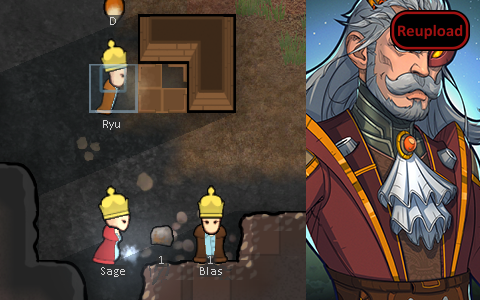
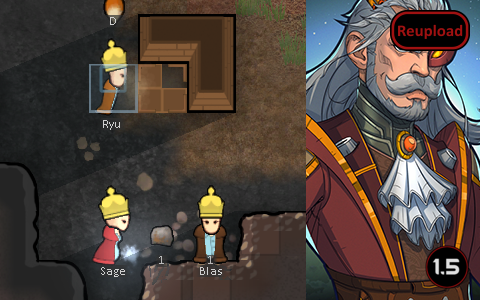
Mod updated for 1.5 and passed autotests

Changed region(s): [[0.875, 0.81, 1.0, 0.96]]

diff --git a/README.md b/README.md
@@ -29,11 +29,13 @@ Unlock Emperor + Working Royality = https://steamcommunity.com/sharedfiles/filed
 
 -  See if the the error persists if you just have this mod and its requirements active.
 -  If not, try adding your other mods until it happens again.
--  Post your error-log using https://steamcommunity.com/workshop/filedetails/?id=818773962]HugsLib and command Ctrl+F12
+-  Post your error-log using https://steamcommunity.com/workshop/filedetails/?id=818773962]HugsLib or the standalone https://steamcommunity.com/sharedfiles/filedetails/?id=2873415404]Uploader and command Ctrl+F12
 -  For best support, please use the Discord-channel for error-reporting.
 -  Do not report errors by making a discussion-thread, I get no notification of that.
 -  If you have the solution for a problem, please post it to the GitHub repository.
+-  Use https://github.com/RimSort/RimSort/releases/latest]RimSort to sort your mods
 
 
 
+https://steamcommunity.com/sharedfiles/filedetails/changelog/2457237725]![Image](https://img.shields.io/github/v/release/emipa606/WorkingRoyalty?label=latest%20version&style=plastic&color=9f1111&labelColor=black)
 
